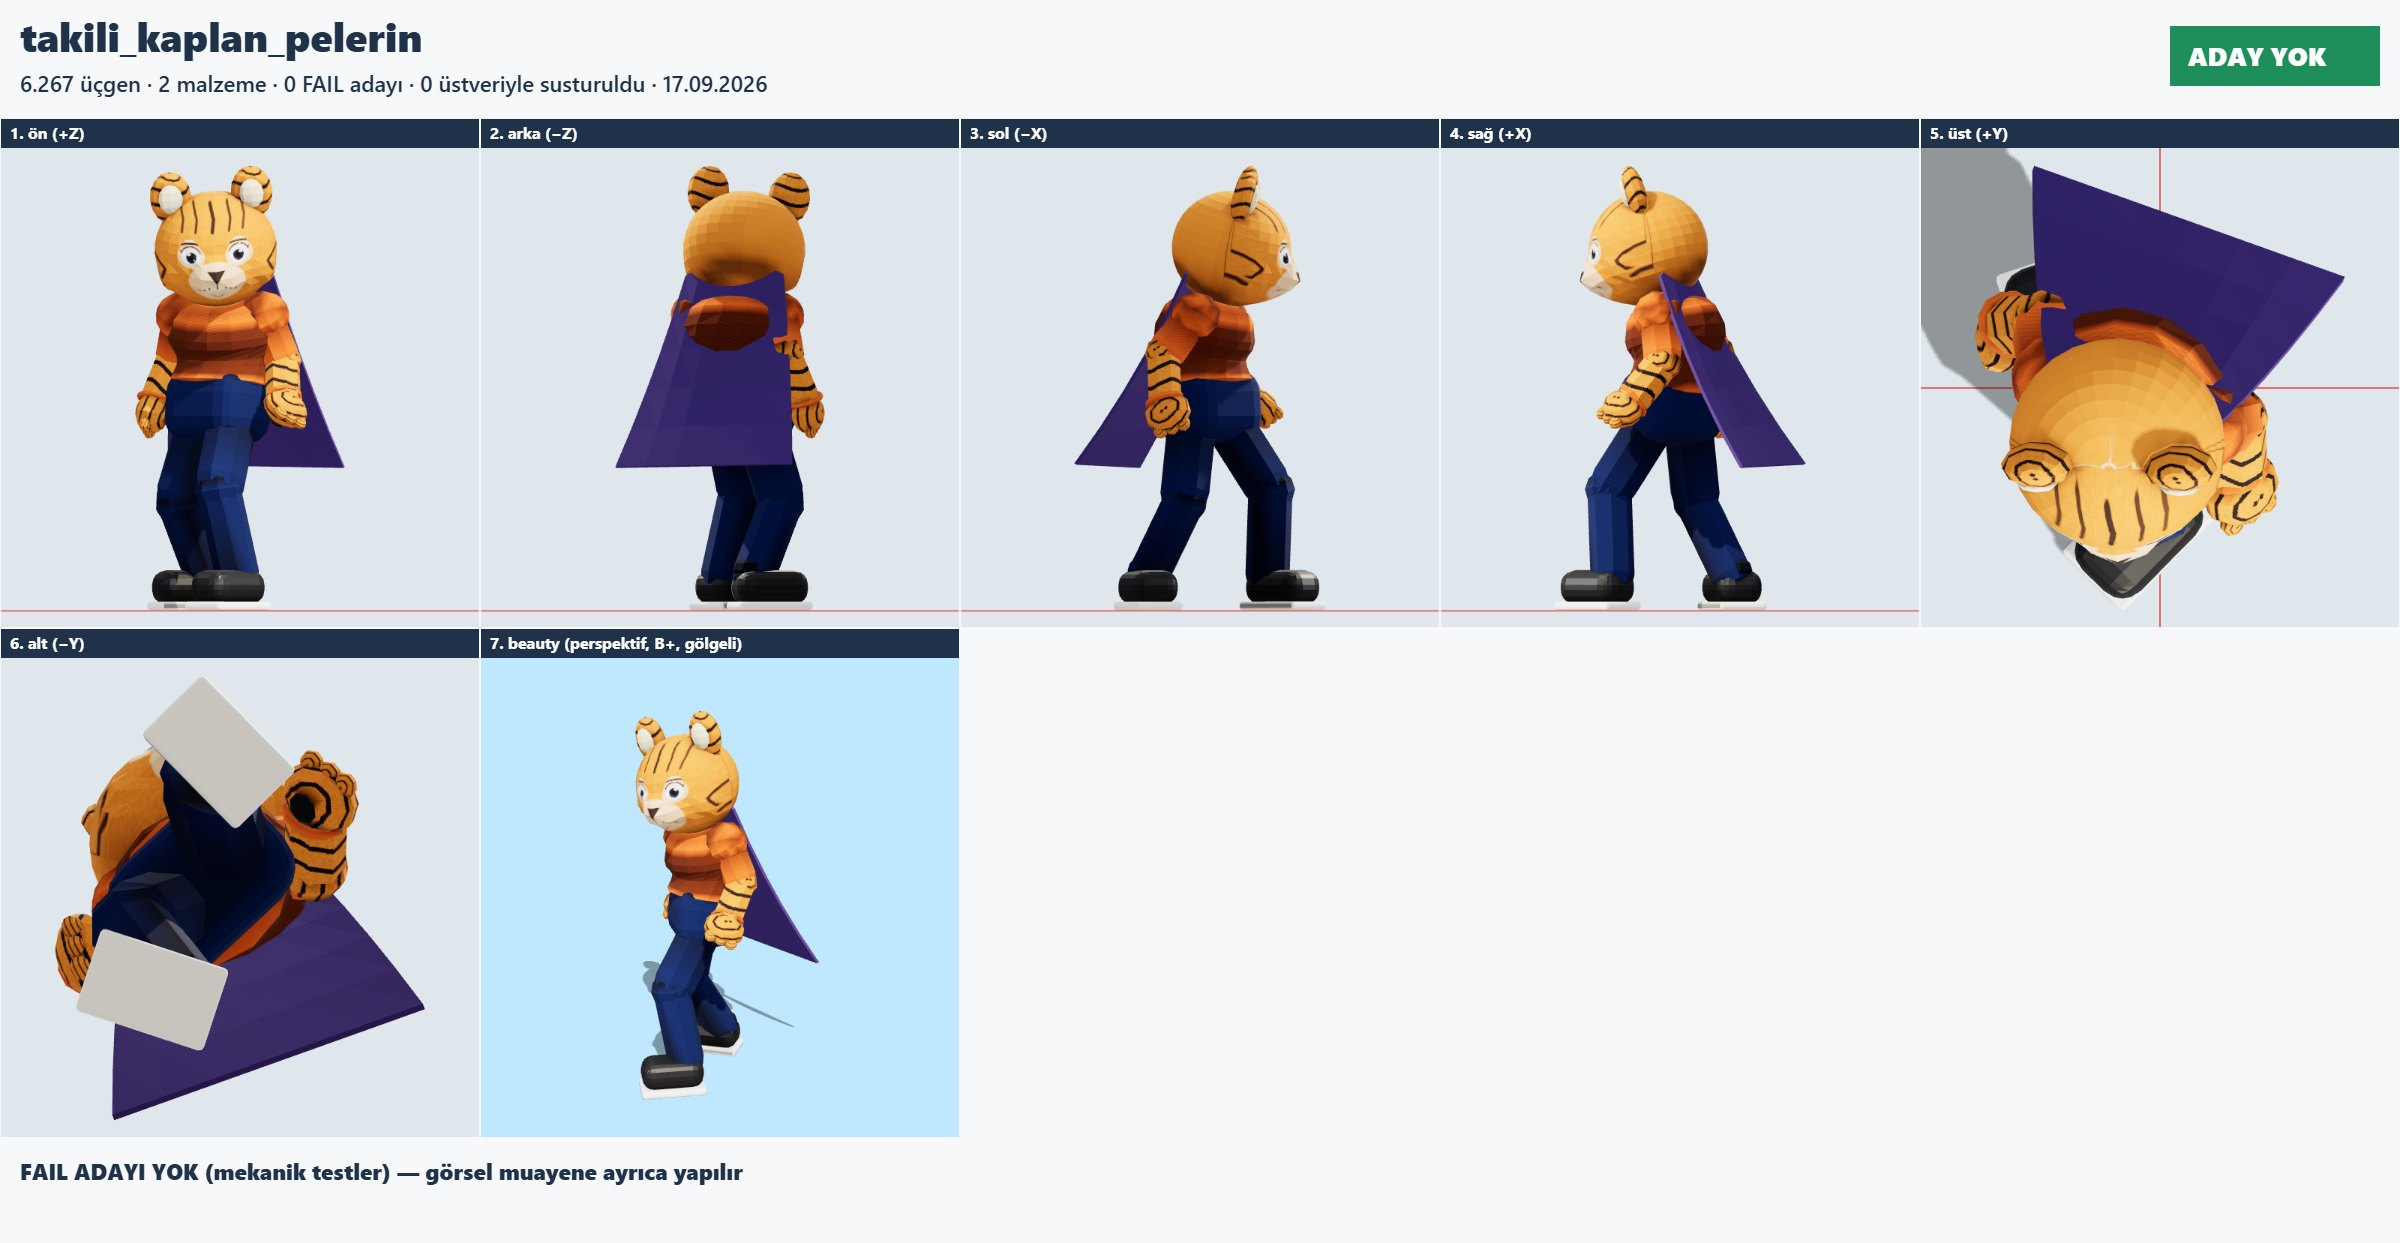
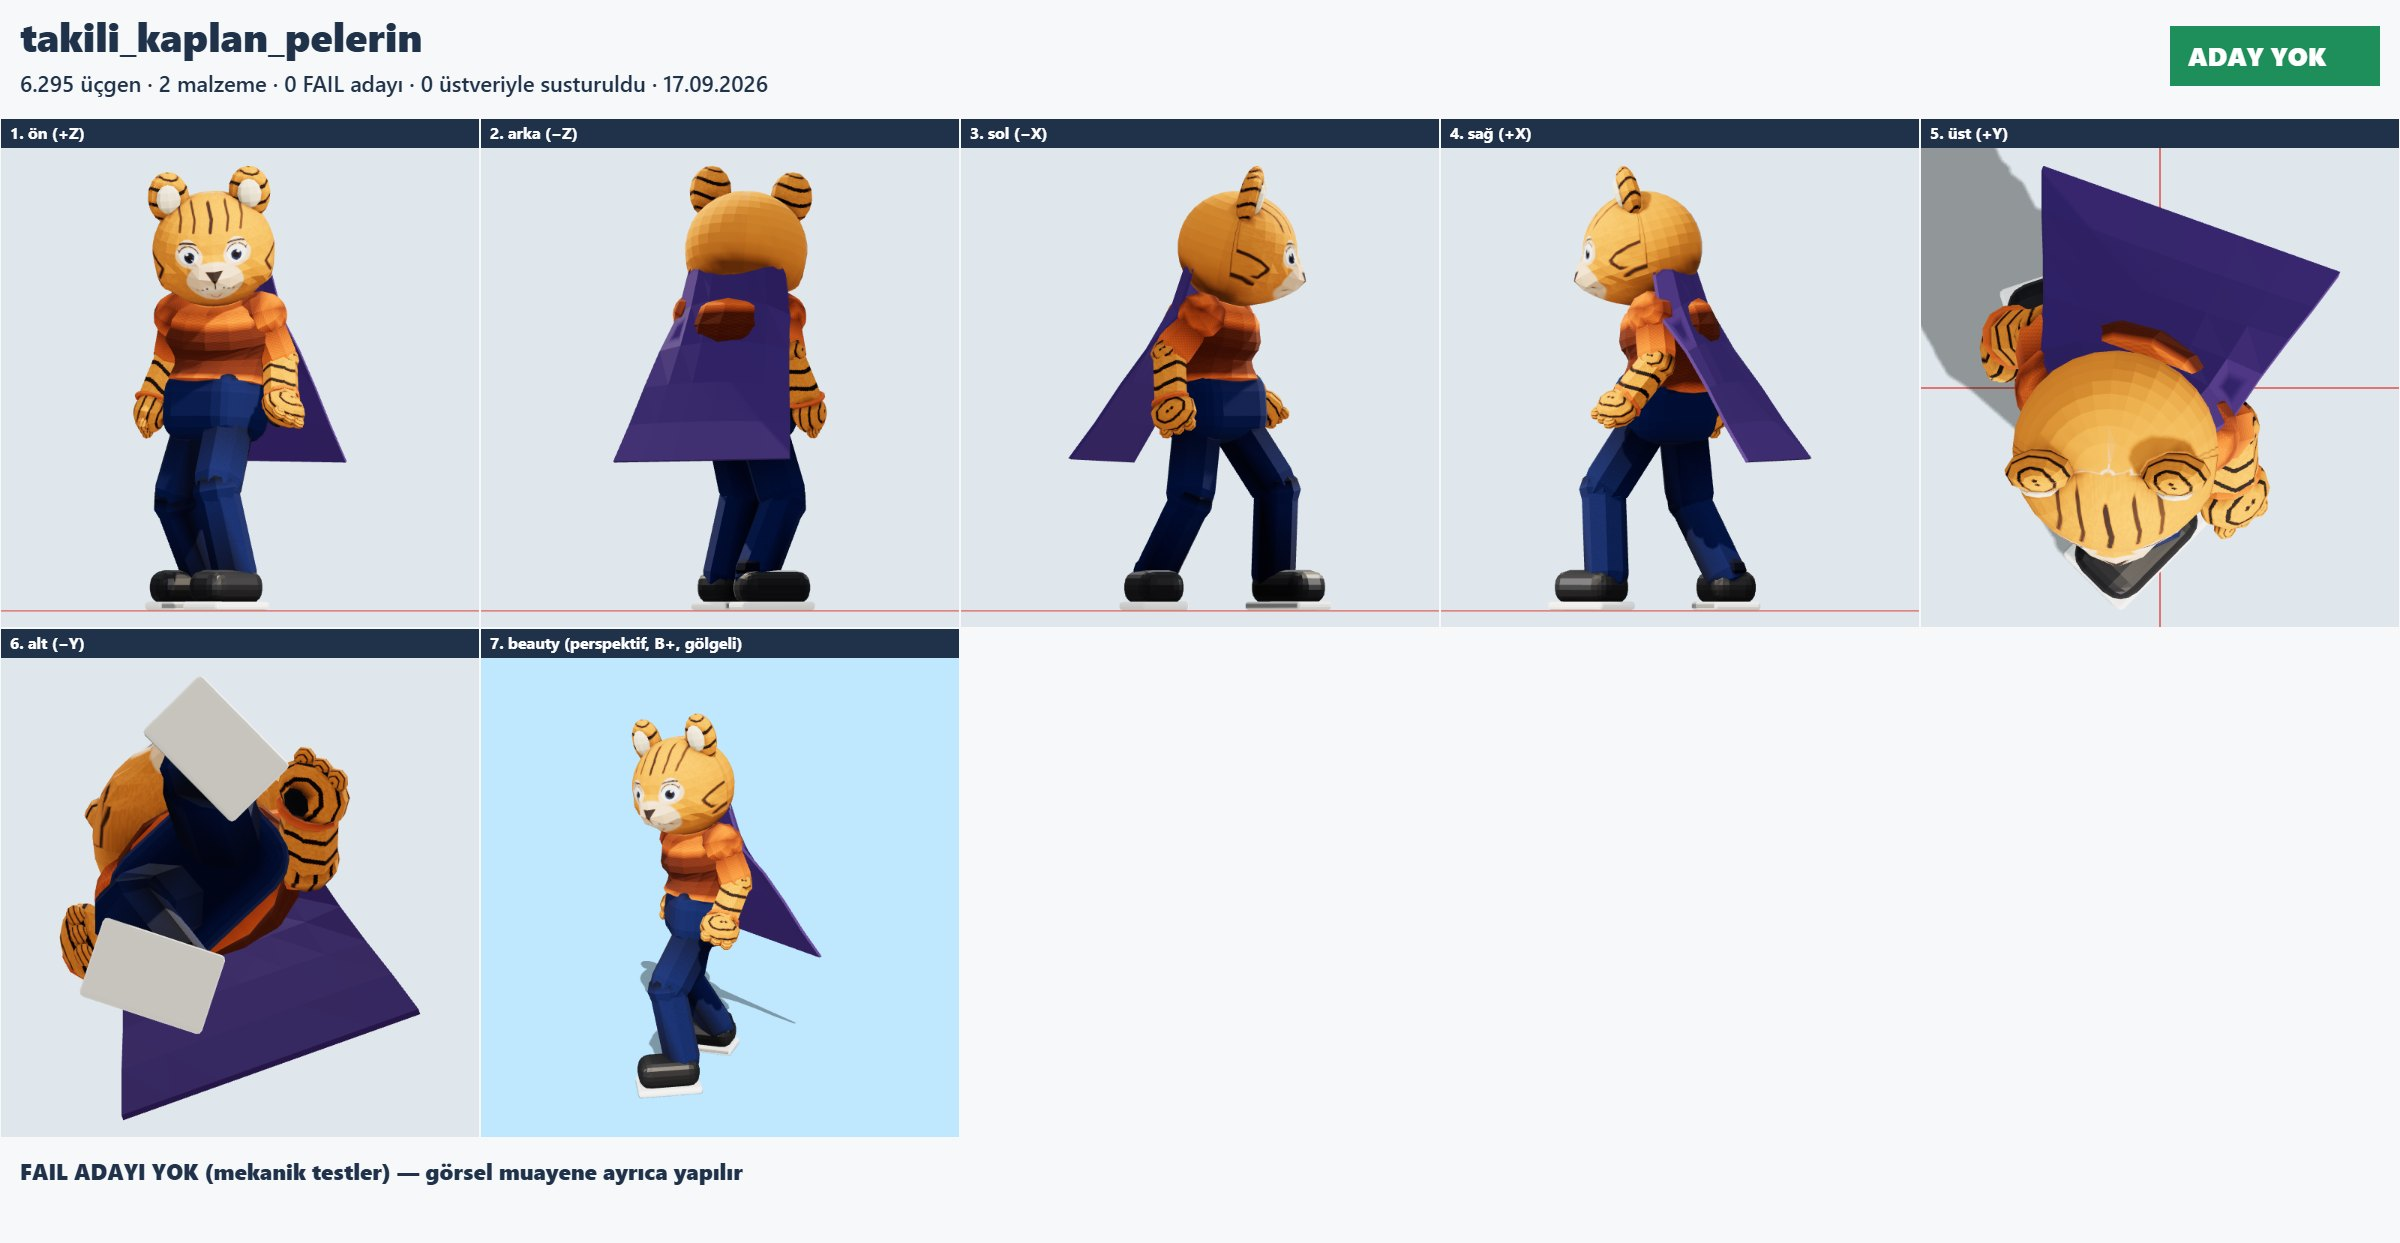
Paket 23 D: pelerin omuz egrisine oturdu + yaka bandi
D.1 olculdu (Idle t=0,5, pelerin ust kenari ile govde sirti arasi):
insan omuz medyan 3,0 cm / bel 1,5 / etek 19,9 — kaplan 3,7 / 1,6 / 19,3 —
robot 4,4 / 3,9 / 23,5. Ust kenar duz yatay bir cizgiydi, omuzda "asili"
duruyordu ve kumasi hicbir yere tutunmuyordu (ne yaka ne toka vardi).

Yapilan: ust kenar artik govdenin ARKA yuzeyini (elips kesit: omuzda ~18 cm
derinlik, ~24 cm yari genislik) izliyor ve asagi indikce etek aciliyor
(sarma terimi). Boynun altindan gecen bir YAKA BANDI eklendi — pelerinle AYNI
ada, ust satir koseleri paylasiliyor (B ve C'deki "ayri parca" hatasi
tekrarlanmasin diye); yan uclari kapali, acik kenar yok. Etek acilimi
0,12t² -> 0,045t²: durgun pozda daha dik sarkiyor.

Tur farki olculdu ve matriste kapandi: PELERIN_TUR_OLCEK (kaplan 1,08 yatay)
ve PELERIN_TUR_Z (kaplan -4,5 cm, robot -1 cm). Kaplanda ust kenar 9,3 cm
-> 5,9 cm, insanda 3,0 -> 1,8 cm, robotta 4,4 -> 5,9 cm (yaka bandi boyundan
dogal olarak aciklikta durur; en yakin kose 0,1-2,6 cm temas ediyor).

sirt_pelerin esya id'si, sirtYuva ve ekKozmetik.js'in tek kaynak olmasi
degismedi. Muayene: pelerin uc turde de temiz (oturma + acik kenar + kalinlik
+ parca butunlugu).

Claude-Session: https://claude.ai/code/session_019HM3yj3ADUbx7HKbCvfEVH

diff --git a/bildim/harita/karakter/ekKozmetik.js b/bildim/harita/karakter/ekKozmetik.js
@@ -68,6 +68,10 @@ export function tacGeometrisi(H) {
 export function pelerinGeometrisi(H) {
   const U = [], sat = 5, sut = 6, boy = 0.92, KAL = 0.014;
   const dort = (a, b, c, d) => { U.push(a, c, b, a, d, c); };
+  // Paket 23 §D: gövdenin ARKA yüzeyi (yerel uzayda). Gövde kesiti elips: omuz hizasında derinlik ~18 cm,
+  // yarı genişlik ~24 cm; sirtYuva gövde merkezinin 16 cm arkasında. Ölçüldü: eski pelerinin üst kenarı düz bir
+  // çizgiydi ve sırttan medyan 3,0–4,4 cm uzaktaydı — kumaş hiçbir yere tutunmuyor gibi duruyordu.
+  const SIRT_Z = (x, t) => 0.155 - (0.18 - 0.02 * t) * Math.sqrt(Math.max(0, 1 - (x / 0.245) ** 2));
   /** @param {number} i sütun 0..sut  @param {number} j satır 0..sat  @param {boolean} ic gövdeye bakan yüzey mi */
   const P = (i, j, ic) => {
     const t = j / sat, u = i / sut - 0.5;
@@ -75,17 +79,30 @@ export function pelerinGeometrisi(H) {
     const x = u * gen;
     const omuz = 1 - (2 * u) ** 2;                                // ortada 1, uçlarda 0
     const y = -boy * t - (1 - omuz) * 0.05 * (1 - t);             // omuz uçları hafif aşağı
-    const z = 0.02 - 0.11 * t * t - omuz * 0.035 * (1 - t) + (ic ? 0 : -KAL);   // gövdeyi takip eder, sonra açılır
+    // Üstte gövdeyi SARAR (omuz eğrisi), aşağı indikçe etek açılır ve gövdeden uzaklaşır.
+    const sarma = Math.max(0, 1 - t * 2.2);
+    const z = SIRT_Z(x, t) * sarma + (0.02 - 0.045 * t * t) * (1 - sarma) + (ic ? 0 : -KAL);
     return [x, y, z];
+  };
+  /** §D: YAKA BANDI — pelerinin üst kenarından çıkan, boynun altından geçen ince bant. Pelerinle AYNI ada
+   *  (B ve C'deki "ayrı parça" hatası tekrarlanmasın diye üst satır köşeleri paylaşılır). */
+  const Y0 = (i, ic) => {
+    const u = i / sut - 0.5, x = u * 0.30, omuz = 1 - (2 * u) ** 2;
+    return [x, 0.055 + omuz * 0.012, SIRT_Z(x, 0) * 0.92 + 0.012 + (ic ? 0 : -KAL)];
   };
   for (let j = 0; j < sat; j++) for (let i = 0; i < sut; i++) {
     dort(P(i, j, true), P(i + 1, j, true), P(i + 1, j + 1, true), P(i, j + 1, true));      // iç yüzey (gövdeye bakar)
     dort(P(i, j + 1, false), P(i + 1, j + 1, false), P(i + 1, j, false), P(i, j, false));  // dış yüzey
   }
-  for (let i = 0; i < sut; i++) {   // üst ve alt kenar bantları
-    dort(P(i, 0, false), P(i + 1, 0, false), P(i + 1, 0, true), P(i, 0, true));
+  for (let i = 0; i < sut; i++) {   // yaka bandı (üst kenardan boynun altına) + alt kenar bandı
+    dort(P(i, 0, true), P(i + 1, 0, true), Y0(i + 1, true), Y0(i, true));          // yakanın gövdeye bakan yüzü
+    dort(Y0(i, false), Y0(i + 1, false), P(i + 1, 0, false), P(i, 0, false));      // yakanın dış yüzü
+    dort(Y0(i, true), Y0(i + 1, true), Y0(i + 1, false), Y0(i, false));            // yakanın üst kenarı
     dort(P(i, sat, true), P(i + 1, sat, true), P(i + 1, sat, false), P(i, sat, false));
   }
+  // yakanın yan uçları (açık kenar bırakmamak için)
+  dort(P(0, 0, true), Y0(0, true), Y0(0, false), P(0, 0, false));
+  dort(P(sut, 0, false), Y0(sut, false), Y0(sut, true), P(sut, 0, true));
   for (let j = 0; j < sat; j++) {   // iki yan kenar bandı
     dort(P(0, j, true), P(0, j + 1, true), P(0, j + 1, false), P(0, j, false));
     dort(P(sut, j, false), P(sut, j + 1, false), P(sut, j + 1, true), P(sut, j, true));
@@ -98,6 +115,10 @@ export const EK_YUVA = { tac: "basYuva", pelerin: "sirtYuva" };
 export const PELERIN_KAYDIR = new THREE.Vector3(0, 0.52, 0);   // sirtYuva (0,94 m) → omuz hattı (~1,44 m); §F: z ötelemesi kalktı, sırt eğrisi geometride
 /** Taç tür ölçeği [yatay, dikey] — kafa yarı eksen oranları (insan 0,235 / 0,2397 taban). */
 export const TAC_TUR_OLCEK = { insan: [1, 1], kaplan: [0.99, 0.96], robot: [0.915, 0.80] };
+/** Pelerin tür ölçeği [yatay, derinlik] — kaplan gövdesi geniş, robotunki dar (ölçüldü: §D). */
+export const PELERIN_TUR_OLCEK = { insan: [1, 1], kaplan: [1.08, 1.0], robot: [0.98, 0.94] };
+/** Pelerinin tür başına z ötelemesi (m): kaplan gövdesi daha derin, pelerin geride kalıyordu (ölçüldü: 9,3 cm). */
+export const PELERIN_TUR_Z = { insan: 0, kaplan: -0.045, robot: -0.01 };
 
 /** Pelerinin durağan açısı (hız 0, salınım ortası) — muayene bu pozu ölçer. */
 export const PELERIN_DURGUN_ACI = 0.06;
@@ -119,7 +140,7 @@ export function ekMatris(ad, yuvaDunya, { aci = PELERIN_DURGUN_ACI, kisa = false
     hedef.multiply(_m2.makeTranslation(0, 0.22, 0));
   }
   if (ad === "pelerin") {
-    hedef.multiply(_m2.makeTranslation(PELERIN_KAYDIR.x, PELERIN_KAYDIR.y, PELERIN_KAYDIR.z));
+    hedef.multiply(_m2.makeTranslation(PELERIN_KAYDIR.x, PELERIN_KAYDIR.y, PELERIN_KAYDIR.z + (PELERIN_TUR_Z[tur] ?? 0)));
     hedef.multiply(_m2.makeRotationX(-aci)).multiply(_m2.makeScale(1, kisa ? 0.58 : 1, 1));
   }
   return hedef;
